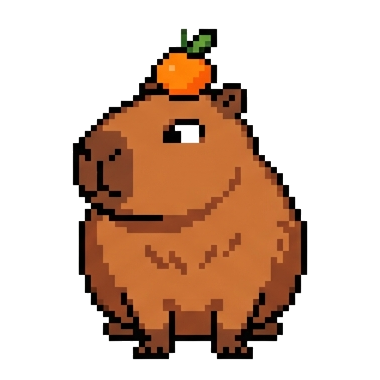
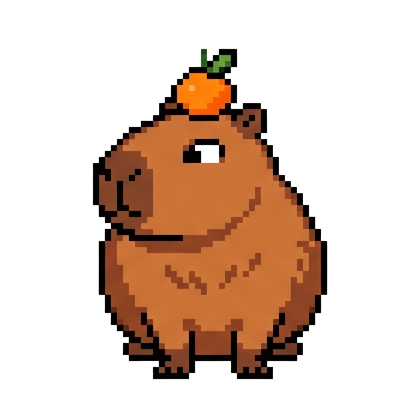
v1.2: 动作库扩到18帧——加权随机行为+连招(瞌睡→睡死/咖啡→打工)+事件动画(欢呼/爱心/被提溜)

Changed region(s): [[0.1737, 0.0579, 0.8105, 0.9553], [0.5211, 0.6079, 0.6368, 0.7237], [0.4921, 0.4342, 0.6368, 0.5789]]

diff --git a/pet.html b/pet.html
@@ -13,78 +13,141 @@
 </style>
 </head>
 <body>
-  <img src="ui/frames/frame_01_idle_front.png" data-frame="front" class="on">
-  <img src="ui/frames/frame_02_look_left.png"  data-frame="left">
-  <img src="ui/frames/frame_03_look_right.png" data-frame="right">
-  <img src="ui/frames/frame_04_look_up.png"    data-frame="up">
-  <img src="ui/frames/frame_05_walking.png"    data-frame="walking">
-  <img src="ui/frames/frame_06_sleeping.png"   data-frame="sleeping">
 <script>
-  const imgs = {};
-  document.querySelectorAll('img').forEach(i => imgs[i.dataset.frame] = i);
+/* ---------- 帧库（18 动作，420x420，已预缩放） ---------- */
+const FRAME_FILES = {
+  front:    'frame_01_idle_front.png',
+  left:     'frame_02_look_left.png',
+  right:    'frame_03_look_right.png',
+  up:       'frame_04_look_up.png',
+  walking:  'frame_05_walking.png',
+  sleeping: 'frame_06_sleeping.png',
+  cheering: 'frame_07_cheering.png',
+  spacing_out: 'frame_08_spacing_out.png',
+  typing_laptop: 'frame_09_typing_laptop.png',
+  drinking_coffee: 'frame_10_drinking_coffee.png',
+  picked_up: 'frame_11_picked_up.png',
+  hot_spring: 'frame_12_hot_spring.png',
+  nodding_off: 'frame_13_nodding_off.png',
+  orange_balancing: 'frame_14_orange_balancing.png',
+  fast_running: 'frame_15_fast_running.png',
+  offering_heart: 'frame_16_offering_heart.png',
+  munching_clover: 'frame_17_munching_clover.png',
+  eating_orange: 'frame_18_eating_orange.png',
+};
+const FRAME_SRC = {};
+const img = document.createElement('img');
+img.className = 'on';
+document.body.appendChild(img);
+for (const [key, file] of Object.entries(FRAME_FILES)) {
+  const pre = new Image();
+  pre.src = 'ui/frames/' + file;      // 预热缓存
+  FRAME_SRC[key] = 'ui/frames/' + file;
+}
 
-  /* 帧状态：mode = idle | walking | sleeping；look 仅 idle 时生效 */
-  let mode = 'idle';
-  let look = 'front';
-  function frameName() {
-    if (mode === 'sleeping') return 'sleeping';
-    if (mode === 'walking')  return 'walking';
-    return (look === 'front' || look === 'up') ? 'front' : look;
-  }
-  function render() {
-    const name = frameName();
-    for (const k in imgs) imgs[k].classList.toggle('on', k === name);
-  }
+/* ---------- 帧状态机 ----------
+   优先级：拖动(提溜) > 事件行为(欢呼/爱心) > 随机行为 > 朝向idle */
+let mode = 'idle';        // idle | <行为键名> | dragged
+let look = 'front';       // front | left | right | up
+let holdUntil = 0;        // 行为保持截止时间戳
+let eventHoldUntil = 0;   // 事件动画保持截止
 
-  /* 鼠标朝向（主进程 120ms 推送全局光标 + 宠物窗口位置） */
-  window.buddy.onCursor(({ mx, my, px, py }) => {
-    if (mode !== 'idle') return;
-    const cx = px + 55, cy = py + 55;          // 宠物中心
-    const dx = mx - cx, dy = my - cy;
-    let want = 'front';
-    if (dx < -55) want = 'left';
-    else if (dx > 55) want = 'right';
-    else if (dy < -75) want = 'up';
-    if (want !== look) {                        // 换方向帧
-      look = want;
-      render();
-    }
-  });
+function frameName() {
+  const now = Date.now();
+  if (mode === 'dragged') return 'picked_up';
+  if (now < eventHoldUntil) return mode;      // 事件动画
+  if (now < holdUntil) return mode;           // 随机行为
+  mode = 'idle';
+  return look;
+}
+function render() { img.src = FRAME_SRC[frameName()]; }
 
-  /* 随机行为：踱步 / 打盹 / 抬头看橘子 */
-  function behavior() {
-    setTimeout(() => {
-      const pool = ['walking', 'sleeping', 'sleeping', 'up', 'walking'];
-      const act = pool[Math.floor(Math.random() * pool.length)];
-      if (act === 'walking') { mode = 'walking'; render(); setTimeout(end, 3000); }
-      else if (act === 'sleeping') { mode = 'sleeping'; render(); setTimeout(end, 6000); }
-      else { mode = 'idle'; look = 'up'; render(); setTimeout(end, 2500); }
-      function end() { mode = 'idle'; look = 'front'; render(); behavior(); }
-    }, 5000 + Math.random() * 9000);
-  }
-  behavior();
-
-  /* 拖动 vs 点击：按下后移动超过 5px 算拖动，否则算点击打开问答 */
-  let down = null, dragging = false;
-  document.addEventListener('mousedown', (e) => {
-    down = { x: e.clientX, y: e.clientY };
-    dragging = false;
-  });
-  document.addEventListener('mousemove', (e) => {
-    if (!down) return;
-    const dx = e.clientX - down.x, dy = e.clientY - down.y;
-    if (dragging || Math.hypot(dx, dy) > 5) {
-      dragging = true;
-      window.buddy.petDragBy(e.movementX, e.movementY);
-    }
-  });
-  document.addEventListener('mouseup', () => {
-    if (down && !dragging) window.buddy.petClick();
-    down = null;
-    dragging = false;
-  });
-
+/* ---------- 主进程事件：答完欢呼 / 打开问答送爱心 ---------- */
+window.buddy.onPetEvent((e) => {
+  const now = Date.now();
+  if (now < eventHoldUntil) return;           // 不打断进行中的事件动画
+  if (e === 'cheer') { mode = 'cheering'; eventHoldUntil = now + 1500; }
+  else if (e === 'greet') { mode = 'offering_heart'; eventHoldUntil = now + 1500; }
   render();
+});
+
+/* ---------- 鼠标朝向（idle 时生效） ---------- */
+window.buddy.onCursor(({ mx, my, px, py }) => {
+  const now = Date.now();
+  if (now < holdUntil || now < eventHoldUntil || mode === 'dragged') return;
+  const cx = px + 55, cy = py + 55;
+  const dx = mx - cx, dy = my - cy;
+  let want = 'front';
+  if (dx < -55) want = 'left';
+  else if (dx > 55) want = 'right';
+  else if (dy < -75) want = 'up';
+  if (want !== look) { look = want; render(); }
+});
+
+/* ---------- 随机行为池（键, 时长ms, 权重, 连招下一帧） ---------- */
+const BEHAVIORS = [
+  ['walking',         3000, 3, null],
+  ['fast_running',    2000, 1, null],
+  ['nodding_off',     3200, 2, 'sleeping'],      // 打瞌睡 → 趴下睡死
+  ['spacing_out',     4000, 2, null],
+  ['orange_balancing',2500, 2, null],
+  ['munching_clover', 3000, 2, null],
+  ['eating_orange',   3000, 2, null],
+  ['drinking_coffee', 2500, 1, 'typing_laptop'],  // 咖啡续命 → 打工
+  ['typing_laptop',   5000, 1, null],
+  ['hot_spring',      8000, 1, null],
+];
+const CHAIN_DUR = { sleeping: 6000, typing_laptop: 5000 };
+function weightedPick() {
+  const total = BEHAVIORS.reduce((s, b) => s + b[2], 0);
+  let r = Math.random() * total;
+  for (const b of BEHAVIORS) { if ((r -= b[2]) < 0) return b; }
+  return BEHAVIORS[0];
+}
+function scheduleBehavior() {
+  setTimeout(() => {
+    if (mode === 'idle' && Date.now() >= eventHoldUntil) {
+      const [name, dur, _w, chain] = weightedPick();
+      mode = name;
+      holdUntil = Date.now() + dur;
+      render();
+      if (chain) {
+        setTimeout(() => {
+          if (mode === name) {            // 中途没被打断才接连招
+            mode = chain;
+            holdUntil = Date.now() + CHAIN_DUR[chain];
+            render();
+          }
+        }, dur);
+      }
+    }
+    scheduleBehavior();
+  }, 4000 + Math.random() * 7000);
+}
+scheduleBehavior();
+
+/* ---------- 拖动：被提溜起来 ---------- */
+let down = null, dragging = false;
+document.addEventListener('mousedown', (e) => {
+  down = { x: e.clientX, y: e.clientY };
+  dragging = false;
+});
+document.addEventListener('mousemove', (e) => {
+  if (!down) return;
+  const dx = e.clientX - down.x, dy = e.clientY - down.y;
+  if (dragging || Math.hypot(dx, dy) > 5) {
+    if (!dragging) { dragging = true; mode = 'dragged'; render(); }
+    window.buddy.petDragBy(e.movementX, e.movementY);
+  }
+});
+document.addEventListener('mouseup', () => {
+  if (down && !dragging) window.buddy.petClick();
+  if (dragging) { mode = 'idle'; render(); }
+  down = null;
+  dragging = false;
+});
+
+render();
 </script>
 </body>
 </html>

diff --git a/main.js b/main.js
@@ -44,6 +44,7 @@ async function runPollinations(question) {
   const done = () => {
     busy = false;
     if (chatWin && !chatWin.isDestroyed()) chatWin.webContents.send('answer-done');
+    petEvent('cheering');   // 答完了欢呼庆祝
     setTimeout(() => {
       if (chatWin && chatWin.isVisible() && !chatWin.isFocused()) chatWin.hide();
     }, 4000);
@@ -169,6 +170,7 @@ function toggleChat() {
   chatWin.show();
   chatWin.focus();
   chatWin.webContents.send('focus-input');
+  petEvent('offering_heart');   // 打开问答，捧爱心迎接
 }
 
 // ---------- 桌面宠物（常驻，不抢焦点） ----------
@@ -222,6 +224,10 @@ ipcMain.on('pet-drag', (_e, dx, dy) => {
   petWin.setPosition(x + Math.round(dx), y + Math.round(dy));
 });
 ipcMain.on('pet-click', () => toggleChat());
+
+function petEvent(ev) {
+  if (petWin && !petWin.isDestroyed()) petWin.webContents.send('pet-event', ev);
+}
 
 // ---------- 生命周期 ----------
 app.whenReady().then(() => {

diff --git a/preload.js b/preload.js
@@ -10,4 +10,5 @@ contextBridge.exposeInMainWorld('buddy', {
   onAnswerChunk: (cb) => ipcRenderer.on('answer-chunk', (_e, t) => cb(t)),
   onAnswerDone: (cb) => ipcRenderer.on('answer-done', () => cb()),
   onCursor: (cb) => ipcRenderer.on('cursor', (_e, pos) => cb(pos)),
+  onPetEvent: (cb) => ipcRenderer.on('pet-event', (_e, ev) => cb(ev)),
 });

diff --git a/README.md b/README.md
@@ -1,6 +1,6 @@
 ---
 title: gemini-buddy 使用说明
-version: v1.1
+version: v1.2
 author: 胡嘉
 date: 2026-09-19
 ---
@@ -21,6 +21,7 @@ date: 2026-09-19
 | v0.9 | 2026-09-19 | 胡嘉 | 卡皮巴拉改为像素风（agy 出像素稿 + canvas 帧渲染，参考 Claude Code 桌宠风格）：20x16 像素 5x 放大，idle 摇橘子/眨眼/跳跃/瞌睡帧动画，瞳孔像素级跟随鼠标，点击互动 |
 | v1.0 | 2026-09-19 | 胡嘉 | 重画像素稿强化卡皮巴拉特征（前突方鼻吻、宽距小眼、桶状身），对外定稿 |
 | v1.1 | 2026-09-19 | 胡嘉 | 架构升级为双窗口：卡皮巴拉桌面常驻（官方素材 6 动作帧、朝向跟随鼠标、随机踱步打盹、可拖动、点击弹问答），问答窗贴宠物弹出并改像素风 UI |
+| v1.2 | 2026-09-19 | 胡嘉 | 动作库扩到 18 帧（素材全量归一 420x420）：新增欢呼/放空/打工/喝咖啡/泡温泉/打瞌睡/顶橘/快跑/捧爱心/嚼三叶草/吃橘子；随机行为带权重和连招（打瞌睡→睡死、喝咖啡→打工）；事件动画：答完欢呼、开问答送爱心、拖动时"被提溜" |
 
 ## 链接
 - 无
